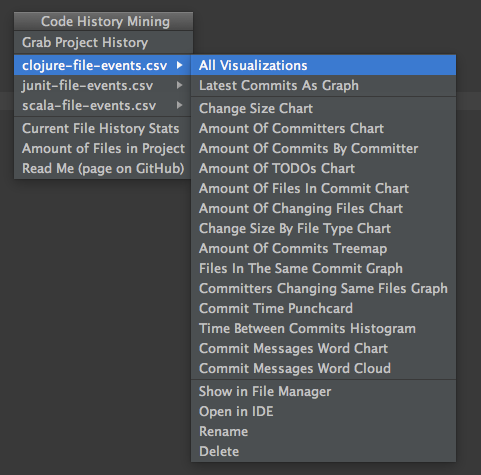
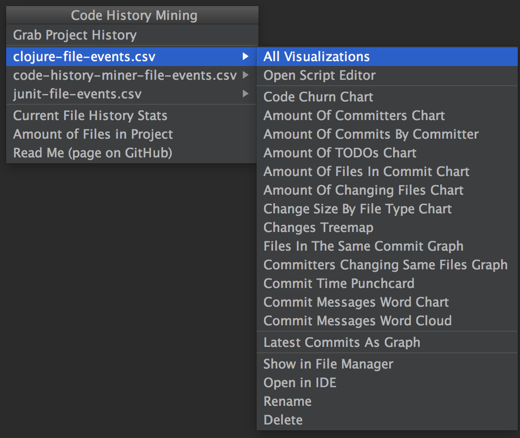
updated readme and screenshot

Changed region(s): [[0.0, 0.0, 0.9979, 0.9795], [0.9979, 0.1781, 1.0, 0.2374]]

diff --git a/README.md b/README.md
@@ -41,13 +41,18 @@ See also [Your Code as a Crime Scene book](https://pragprog.com/book/atcrime/you
 
 
 ### How to use?
- - **grab project history from version control into csv file** -
+ - **Grab project history from version control into csv file**.
  Grab Project History action will use VCS roots configured in current project for checked out VCS branches.
  The main reason for separate grabbing step is that code history often contains some noise (e.g. automatically updated build system files).
  Having code history in csv file should make it easier to process it with some scripts before visualization.
- - **visualize code history from csv file** -
- at this step code history is consumed from csv file and visualized in browser.
+ - **Visualize code history from csv file**.
+ At this step code history is consumed from csv file and visualized in browser.
  All visualizations are self-contained one file html pages so that they can be saved and shared without external dependencies.
+ - **Filter/process data**.
+ The purpose of filtering is to clean grabbed data so that visualization or other analysis is more accurate,
+ e.g. you might want to exclude commits related to project documentation or commits generated by CI.
+ It also might be useful to write custom analysis on grabbed data (similar to writing database query).
+
 
 #### Grab Project history
 Use ``Main menu -> VCS -> Code History Mining`` or ``alt+shift+H`` to open plugin popup
@@ -74,6 +79,17 @@ Files from this folder are displayed in plugin menu.
 
 When opened in browser visualizations will have help button with short description,
 e.g. see visualizations for [JUnit](http://dkandalov.github.io/code-history-mining/JUnit.html).
+
+
+#### Filter/process data
+Use ``Main menu -> VCS -> Code History Mining`` or ``alt+shift+H`` to open plugin popup,
+select one the grabbed files and choose ``Open Script Editor``.
+This will open new tab where you can write Groovy code.
+To run the script use ``alt+shift+E`` shortcut (or ``Run Code History Script`` in editor context menu).
+
+The script is general purpose Groovy code with few implicit variables to access grabbed data and
+no particular restrictions (similar to [LivePlugin](https://github.com/dkandalov/live-plugin#liveplugin)).
+For details see [Code History Script API](https://github.com/dkandalov/code-history-mining/wiki/Code-History-Script-API) wiki page.
 
 
 ### Misc notes
@@ -116,7 +132,7 @@ Columns:
 Output csv format should be compatible with [RFC4180](http://www.apps.ietf.org/rfc/rfc4180.html).
 
 
-### Acknowledgments
+### Credits
  - inspired by Michael Feathers [workshop](http://codehistorymining.eventbrite.co.uk/)
  and [Delta Flora](https://github.com/michaelfeathers/delta-flora) project.
  - all visualizations are based on awesome [d3.js examples](https://github.com/mbostock/d3/wiki/Gallery).
